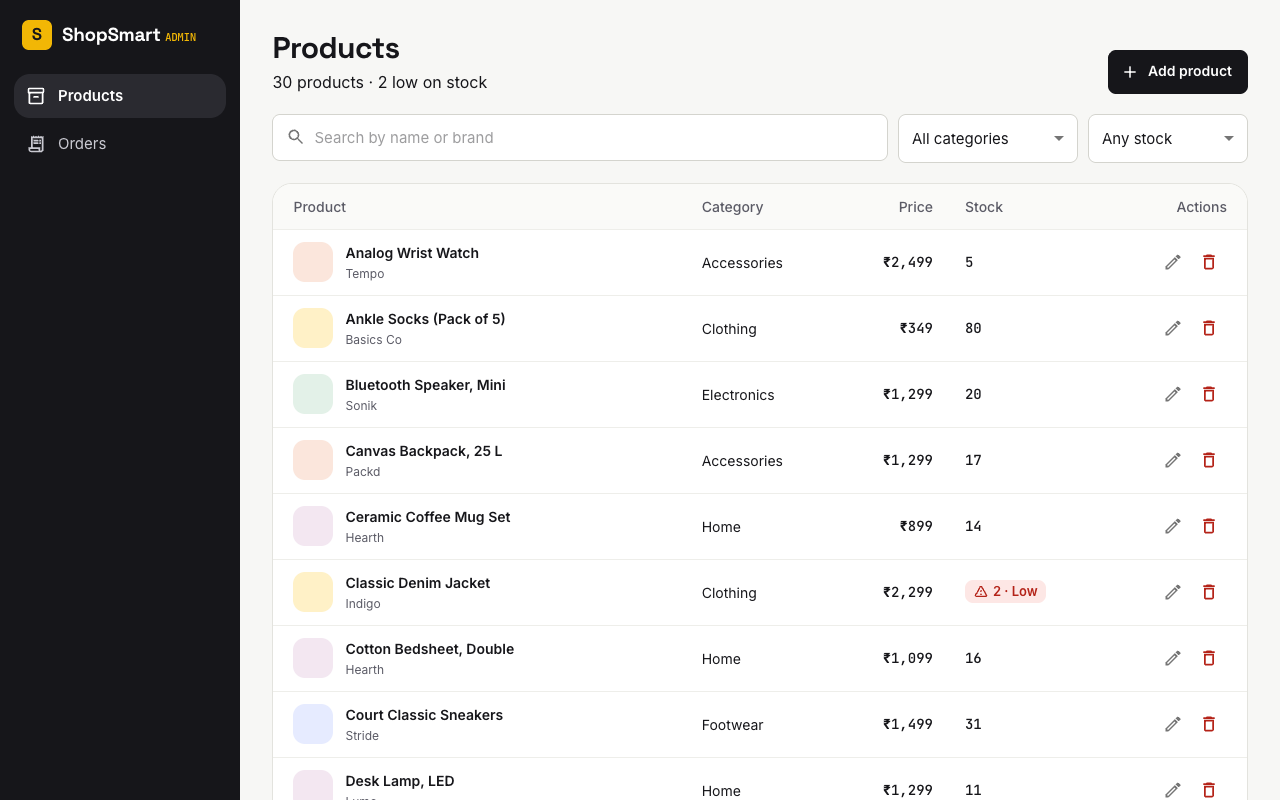
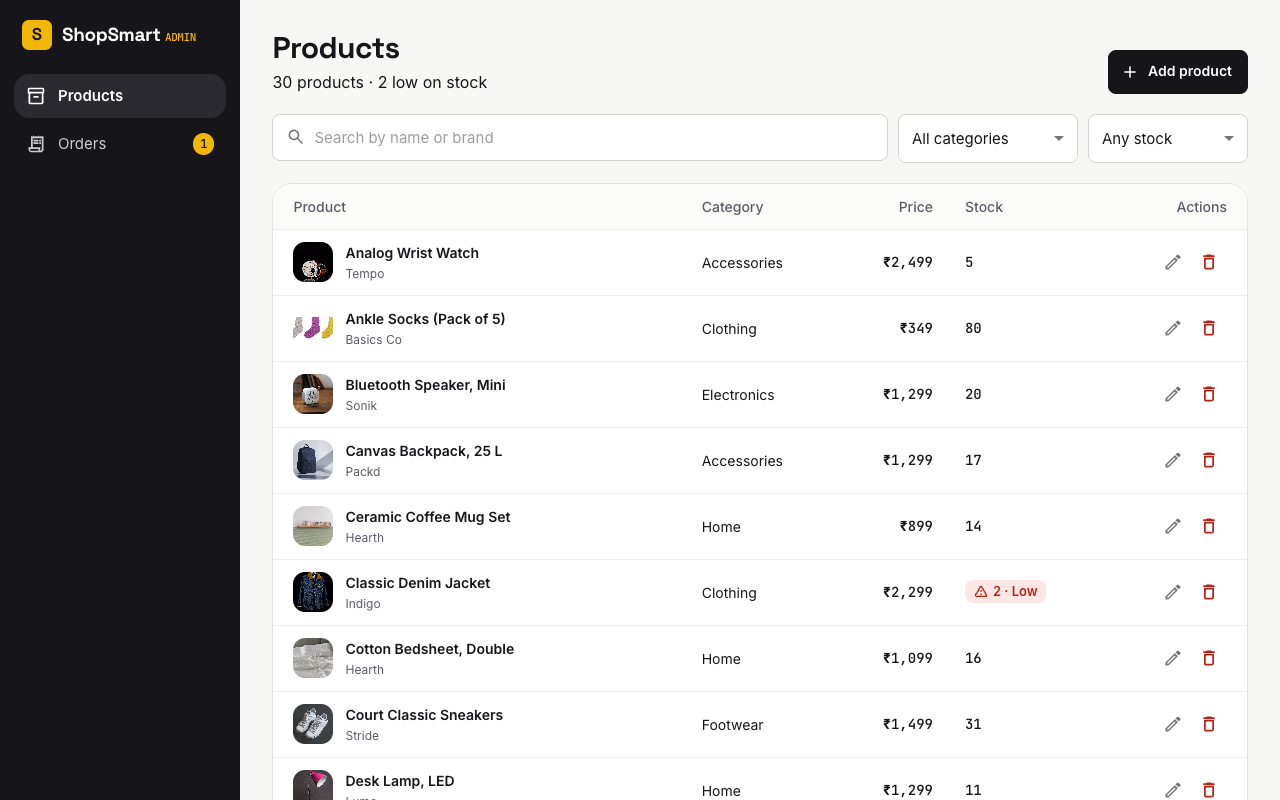
Update README screenshots with product photos
The screenshots still showed placeholder tiles from before products
had photos. They now show the shop, a product page, the assistant's
product cards and the admin table with real images, and the README
notes that the sample photos come from Unsplash.

diff --git a/README.md b/README.md
@@ -10,7 +10,7 @@ An e-commerce store built with the MERN stack, with an AI shopping assistant tha
 
 **Shop**
 - Search, multi-category and price filters, sorting and pagination. Filters live in the URL, so refresh, the back button and shared links keep them.
-- Product pages with stock status and related products.
+- Product pages with photos, stock status and related products. Sample product photos are from [Unsplash](https://unsplash.com) and load from its CDN.
 - Cart stored in the browser (works for guests) that re-checks prices and stock against the API when opened.
 - Cash-on-delivery checkout, order tracking, and cancellation until an order ships.
 
@@ -23,9 +23,11 @@ An e-commerce store built with the MERN stack, with an AI shopping assistant tha
 - Products: search, category and stock filters, add / edit / delete.
 - Orders: counts per status, search by customer, city or order number, and status changes limited to allowed steps.
 
-| AI assistant | Admin panel |
+| Product page | AI assistant |
 |---|---|
-| ![AI assistant comparing two products](docs/screenshots/assistant.png) | ![Admin products table](docs/screenshots/admin.png) |
+| ![Product page](docs/screenshots/product.png) | ![AI assistant comparing two products](docs/screenshots/assistant.png) |
+
+![Admin products table](docs/screenshots/admin.png)
 
 ## Tech stack
 
@@ -142,7 +144,7 @@ backend/
   services/aiTools.js     tool definitions and the functions the assistant can call
   middleware/             JWT auth, admin check, central error handler
   routes/                 one router per resource
-  seed/                   sample products and seed script
+  seed/                   sample products (with photo links) and seed script
 frontend/
   src/api/axios.js        API client: adds the token, normalises errors
   src/context/            AuthContext, CartContext
